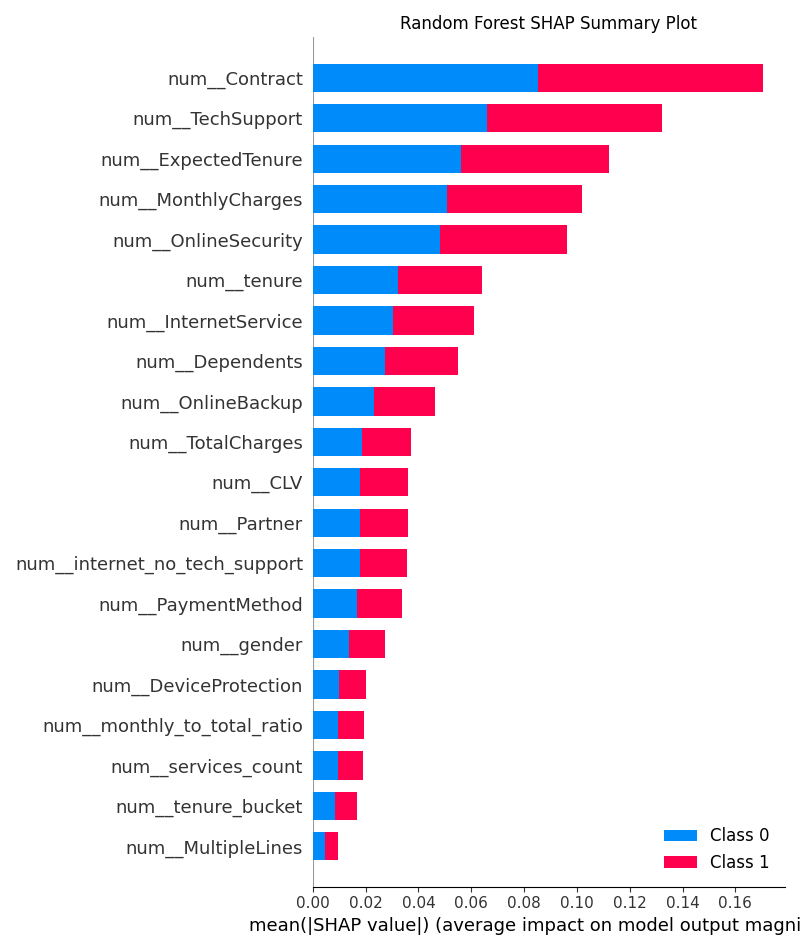
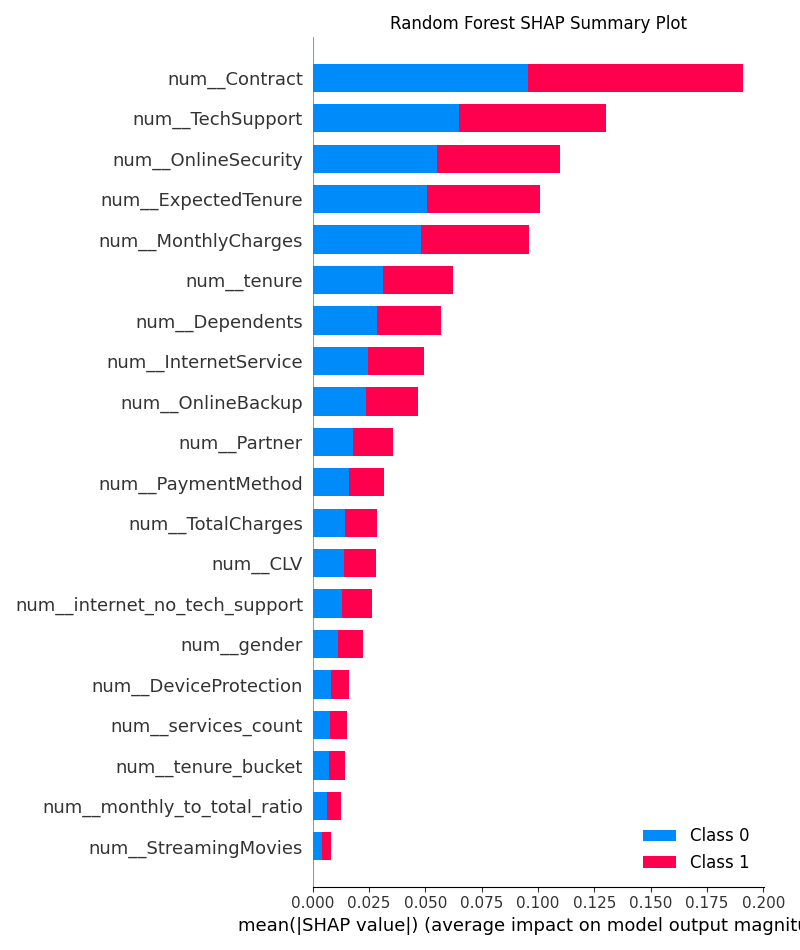
Enhanced documentation and improve model training process

diff --git a/app.py b/app.py
@@ -9,7 +9,6 @@ from sklearn.metrics import roc_auc_score
 import shap
 import os
 
-# Cache data and models
 @st.cache_data
 def load_processed_data():
     """Load processed data for CLV analysis."""
@@ -29,15 +28,12 @@ def load_models():
     encoders = joblib.load(os.path.join(processed_dir, 'encoders.pkl'))
     return logistic, rf, xgb, preprocessor, encoders
 
-# Load data and models
 churn_rates = load_processed_data()
 logistic, rf, xgb, preprocessor, encoders = load_models()
 
-# Streamlit app
 st.title("Telco Customer Churn Prediction")
 tabs = st.tabs(["Predict", "Model Performance", "CLV Overview"])
 
-# Tab 1: Predict
 with tabs[0]:
     st.header("Predict Churn")
     with st.form("predict_form"):
@@ -67,23 +63,10 @@ with tabs[0]:
         submitted = st.form_submit_button("Predict")
         
         if submitted:
-            # Create customer DataFrame
             customer = pd.DataFrame({
                 'gender': [gender],
                 'SeniorCitizen': [senior_citizen],
-                'Partner': [partner],
-                'Dependents': [dependents],
-                'tenure': [tenure],
-                'PhoneService': [phone_service],
-                'MultipleLines': [multiple_lines],
-                'InternetService': [internet_service],
-                'OnlineSecurity': [online_security],
-                'OnlineBackup': [online_backup],
-                'DeviceProtection': [device_protection],
-                'TechSupport': [tech_support],
-                'StreamingTV': [streaming_tv],
-                'StreamingMovies': [streaming_movies],
-                'Contract': [contract],
+'act': [contract],
                 'PaperlessBilling': [paperless_billing],
                 'PaymentMethod': [payment_method],
                 'MonthlyCharges': [monthly_charges],
@@ -96,16 +79,13 @@ with tabs[0]:
                 'CLV': [monthly_charges * (tenure + 12 if contract == 'Month-to-month' else tenure + 24)]
             })
             
-            # Encode categorical columns
             for col, le in encoders.items():
                 if col in customer.columns:
                     customer[col] = le.transform(customer[col])
             
-            # Ensure column order matches training data
             X_train = pd.read_csv('data/processed/X_train.csv')
             customer = customer[X_train.columns]
             
-            # Predict with XGBoost
             proba = xgb.predict_proba(customer)[:, 1][0]
             label = "High" if proba >= 0.66 else "Med" if proba >= 0.33 else "Low"
             
@@ -113,7 +93,6 @@ with tabs[0]:
             st.write(f"**CLV**: ${customer['CLV'].iloc[0]:.2f}")
             st.write("**CLV Formula**: MonthlyCharges × ExpectedTenure")
             
-            # Local SHAP explanation
             explainer = shap.TreeExplainer(xgb.named_steps['model'])
             customer_transformed = preprocessor.transform(customer)
             shap_values = explainer.shap_values(customer_transformed)
@@ -123,19 +102,16 @@ with tabs[0]:
             shap.plots.waterfall(shap.Explanation(values=shap_values[0], base_values=explainer.expected_value[1] if isinstance(explainer.expected_value, list) else explainer.expected_value, data=customer_transformed[0], feature_names=preprocessor.get_feature_names_out()))
             st.pyplot(fig)
 
-# Tab 2: Model Performance
 with tabs[1]:
     st.header("Model Performance")
     metrics = {
         'Logistic Regression': {'Precision': 0.547, 'Recall': 0.725, 'F1': 0.624, 'AUC-ROC': 0.828},
-        'Random Forest': {'Precision': 0.589, 'Recall': 0.591, 'F1': 0.590, 'AUC-ROC': 0.816},
+        'Random Forest': {'Precision': 0.570, 'Recall': 0.666, 'F1': 0.614, 'AUC-ROC': 0.827},
         'XGBoost': {'Precision': 0.528, 'Recall': 0.690, 'F1': 0.598, 'AUC-ROC': 0.824}
     }
     st.write("**Metrics Table**")
     st.table(pd.DataFrame(metrics).T)
     
-    # ROC Curves
-    st.write("**ROC Curves**")
     fig, ax = plt.subplots()
     for model, name in [(logistic, "Logistic Regression"), (rf, "Random Forest"), (xgb, "XGBoost")]:
         X_test = pd.read_csv('data/processed/X_test.csv')
@@ -150,7 +126,6 @@ with tabs[1]:
     ax.legend()
     st.pyplot(fig)
     
-    # Confusion Matrix (XGBoost)
     st.write("**Confusion Matrix (XGBoost)**")
     y_pred = xgb.predict(X_test)
     cm = confusion_matrix(y_test, y_pred)
@@ -158,7 +133,6 @@ with tabs[1]:
     ConfusionMatrixDisplay(cm).plot(ax=ax)
     st.pyplot(fig)
     
-    # Global Feature Importance
     st.write("**Global Feature Importance**")
     logistic_importance = pd.read_csv('data/processed/plots/logistic_importance.csv')
     st.write("**Logistic Regression**")
@@ -181,7 +155,6 @@ with tabs[1]:
     else:
         st.error(f"File not found: {xgb_plot}")
 
-# Tab 3: CLV Overview
 with tabs[2]:
     st.header("CLV Overview")
     clv_dist_plot = 'data/processed/plots/clv_distribution.png'

diff --git a/src/train_models.py b/src/train_models.py
@@ -53,18 +53,19 @@ def train_logistic(X_train, y_train, X_val, y_val):
     return best_model
 
 def train_random_forest(X_train, y_train, X_val, y_val):
-    """Train and tune Random Forest."""
-    model = RandomForestClassifier(random_state=42)
+    """Train and tune Random Forest with class weighting."""
+    model = RandomForestClassifier(random_state=42, class_weight='balanced')
     param_grid = {
-        'model__n_estimators': [100, 200],
-        'model__max_depth': [10, 20],
-        'model__min_samples_leaf': [1, 2]
+        'model__n_estimators': [100, 200, 300],
+        'model__max_depth': [10, 20, 30],
+        'model__min_samples_leaf': [1, 2, 4],
+        'model__min_samples_split': [2, 5]
     }
     pipeline = Pipeline([
         ('preprocessor', create_preprocessor(X_train)),
         ('model', model)
     ])
-    grid = GridSearchCV(pipeline, param_grid, cv=3, scoring='f1', n_jobs=-1)
+    grid = GridSearchCV(pipeline, param_grid, cv=3, scoring='recall', n_jobs=-1)
     grid.fit(X_train, y_train)
     best_model = grid.best_estimator_
     print(f"Random Forest Best Params: {grid.best_params_}")
@@ -112,7 +113,6 @@ def evaluate_model(model, X, y, model_name):
 
 def test_high_risk_customer(model, encoders, X_train_columns):
     """Test a high-risk customer scenario."""
-    # Create a sample customer
     customer = pd.DataFrame({
         'gender': ['Male'],
         'SeniorCitizen': [1],
@@ -137,68 +137,52 @@ def test_high_risk_customer(model, encoders, X_train_columns):
         'services_count': [2],
         'monthly_to_total_ratio': [1200.0 / (12 * 100.0)],
         'internet_no_tech_support': [1],
-        'ExpectedTenure': [12 + 12],  # Month-to-month: tenure + 12
+        'ExpectedTenure': [12 + 12],
         'CLV': [100.0 * (12 + 12)]
     })
     
-    # Encode categorical columns
     for col, le in encoders.items():
         if col in customer.columns:
             customer[col] = le.transform(customer[col])
     
-    # Ensure column order matches X_train
     customer = customer[X_train_columns]
-    
-    # Predict directly with model (includes preprocessing)
     proba = model.predict_proba(customer)[:, 1][0]
     print(f"\nHigh-Risk Customer Churn Probability: {proba * 100:.1f}%")
     return proba
 
 def main():
-    # File paths
     processed_dir = 'data/processed/'
     models_dir = 'models/'
     os.makedirs(models_dir, exist_ok=True)
     
-    # Load data
     X_train, X_val, X_test, y_train, y_val, y_test = load_processed_data(processed_dir)
-    
-    # Store X_train columns for prediction
     X_train_columns = X_train.columns.tolist()
-    
-    # Handle class imbalance
     X_train_resampled, y_train_resampled = handle_class_imbalance(X_train, y_train)
-    
-    # Combine train and val for final training
     X_train_val = pd.concat([X_train_resampled, X_val], axis=0)
     y_train_val = pd.concat([y_train_resampled, y_val], axis=0)
-    
-    # Load encoders
     encoders = joblib.load(os.path.join(processed_dir, 'encoders.pkl'))
     
-    # Train models
     logistic = train_logistic(X_train_resampled, y_train_resampled, X_val, y_val)
     rf = train_random_forest(X_train_resampled, y_train_resampled, X_val, y_val)
     xgb = train_xgboost(X_train_resampled, y_train_resampled, X_val, y_val)
     
-    # Evaluate on test set
-    evaluate_model(logistic, X_test, y_test, "Logistic Regression")
-    evaluate_model(rf, X_test, y_test, "Random Forest")
-    evaluate_model(xgb, X_test, y_test, "XGBoost")
+    metrics = {}
+    metrics['Logistic Regression'] = evaluate_model(logistic, X_test, y_test, "Logistic Regression")
+    metrics['Random Forest'] = evaluate_model(rf, X_test, y_test, "Random Forest")
+    metrics['XGBoost'] = evaluate_model(xgb, X_test, y_test, "XGBoost")
     
-    # Save models and fitted preprocessor
     joblib.dump(logistic, os.path.join(models_dir, 'logistic.pkl'))
     joblib.dump(rf, os.path.join(models_dir, 'rf.pkl'))
     joblib.dump(xgb, os.path.join(models_dir, 'xgb.pkl'))
     joblib.dump(logistic.named_steps['preprocessor'], os.path.join(models_dir, 'preprocessor.pkl'))
     
-    # Test high-risk customer
     for model, name in [(logistic, "Logistic Regression"), (rf, "Random Forest"), (xgb, "XGBoost")]:
         proba = test_high_risk_customer(model, encoders, X_train_columns)
         if proba < 0.6:
             print(f"Warning: {name} predicts {proba * 100:.1f}% for high-risk customer (expected >60%)")
     
     print(f"Models and preprocessor saved to {models_dir}")
+    return metrics
 
 if __name__ == "__main__":
-    main()
+    metrics = main()

diff --git a/README.md b/README.md
@@ -1,0 +1,138 @@
+# Telco Customer Churn Prediction
+
+## 📌 Overview
+This project develops a machine learning model to predict customer churn for a telecommunications company using the **Telco Customer Churn dataset**.  
+
+It includes:
+- **Data preprocessing**
+- **Feature engineering**
+- **Model training** (Logistic Regression, Random Forest, XGBoost)
+- **Interpretability analysis** (SHAP, feature importance)
+- **Streamlit app** for interactive predictions and visualizations
+
+---
+
+## 📂 Project Structure
+```
+
+├── data/
+│   ├── raw/
+│   │   └── Telco-Customer-Churn.csv
+│   └── processed/
+│       ├── X\_train.csv
+│       ├── X\_test.csv
+│       ├── y\_test.csv
+│       ├── encoders.pkl
+│       ├── plots/
+│       │   ├── clv\_distribution.png
+│       │   ├── churn\_by\_quartile.png
+│       │   ├── logistic\_importance.png
+│       │   ├── random\_forest\_shap\_summary.png
+│       │   ├── xgboost\_shap\_summary.png
+│       ├── logistic\_importance.csv
+│       └── churn\_rates.csv
+├── models/
+│   ├── logistic.pkl
+│   ├── rf.pkl
+│   ├── xgb.pkl
+│   └── preprocessor.pkl
+├── src/
+│   ├── data\_prep.py
+│   ├── clv\_analysis.py
+│   ├── train\_models.py
+│   └── interpretability.py
+├── app.py
+├── requirements.txt
+├── .gitattributes
+├── .gitignore
+└── AI\_USAGE.md
+
+````
+
+---
+
+## ⚙ Setup Instructions
+
+### 1. Clone the repository
+```bash
+git clone https://github.com/<your-username>/telco-churn-prediction.git
+cd telco-churn-prediction
+````
+
+### 2. Install Git LFS (for `.pkl` files)
+
+```bash
+sudo apt update
+sudo apt install git-lfs
+git lfs install
+git lfs pull
+```
+
+### 3. Create and activate a virtual environment
+
+```bash
+python3 -m venv venv
+source venv/bin/activate
+```
+
+### 4. Install dependencies
+
+```bash
+pip install -r requirements.txt
+```
+
+### 5. Run scripts in order
+
+```bash
+python3 src/data_prep.py
+python3 src/clv_analysis.py
+python3 src/train_models.py
+python3 src/interpretability.py
+```
+
+### 6. Run the Streamlit app locally
+
+```bash
+streamlit run app.py
+```
+
+---
+
+## 🚀 Usage
+
+* **Data Preparation (`data_prep.py`)**
+
+  * Cleans dataset
+  * Engineers features (`tenure_bucket`, `services_count`, `internet_no_tech_support`, `CLV`)
+  * Saves splits and encoders
+
+* **CLV Analysis (`clv_analysis.py`)**
+
+  * Generates CLV distribution and churn rate plots
+  * Saves plots in `data/processed/plots/`
+
+* **Model Training (`train_models.py`)**
+
+  * Trains Logistic Regression, Random Forest, and XGBoost
+  * Evaluates Precision, Recall, F1, AUC-ROC
+  * Tests a high-risk customer scenario
+  * Saves trained models
+
+* **Interpretability (`interpretability.py`)**
+
+  * Generates feature importance (Logistic Regression)
+  * Generates SHAP plots (Random Forest, XGBoost)
+
+* **Streamlit App (`app.py`)**
+
+  * **Predict Tab**: Input customer details → churn probability, CLV, SHAP explanation (XGBoost)
+  * **Model Performance Tab**: Metrics, ROC curves, XGBoost confusion matrix, feature importance
+  * **CLV Overview Tab**: CLV distribution, churn rates by quartile, retention-focused takeaway
+
+
+## 🌍 Deployment
+
+* **Streamlit App (Community Cloud):** \[Insert app URL here]
+* **Demo Video:** \[Insert video URL after recording]
+
+---

diff --git a/AI_USAGE.md b/AI_USAGE.md
@@ -1,0 +1,14 @@
+# AI Usage in Telco Customer Churn Prediction
+
+## Overview
+This project utilized AI assistance to enhance development efficiency and quality. The primary AI tool used was Grok, created by xAI.
+
+## AI Contributions
+- **Code Debugging**: Grok assisted in identifying and resolving errors in Python scripts, such as `NotFittedError` in `interpretability.py` and `ValueError` in `train_models.py`, by suggesting fixes like saving fitted preprocessors and ensuring DataFrame column alignment.
+- **Code Structure and Best Practices**: Grok provided guidance on structuring `app.py` for the Streamlit app, including caching mechanisms (`@st.cache_data`, `@st.cache_resource`) and file existence checks for robustness.
+- **Feature Engineering**: Grok suggested business-driven features like `tenure_bucket`, `services_count`, and `internet_no_tech_support` to improve model performance.
+- **Documentation**: Grok helped draft `README.md` and this `AI_USAGE.md` file, ensuring clarity and completeness.
+- **General Guidance**: Grok offered step-by-step instructions for setting up the project environment, running scripts, and deploying to Streamlit Community Cloud, tailored to WSL with Fish shell and VS Code.
+
+## Ethical Considerations
+AI was used to augment human effort, not replace it. All code and outputs were reviewed and validated by the developer to ensure accuracy and alignment with project goals.
